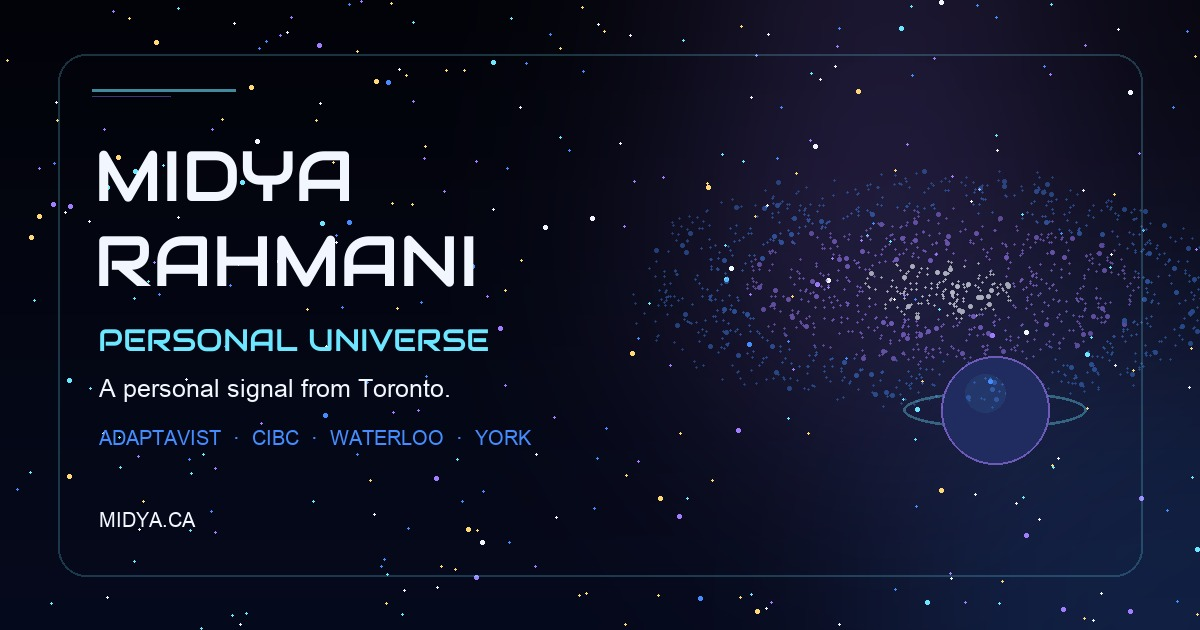
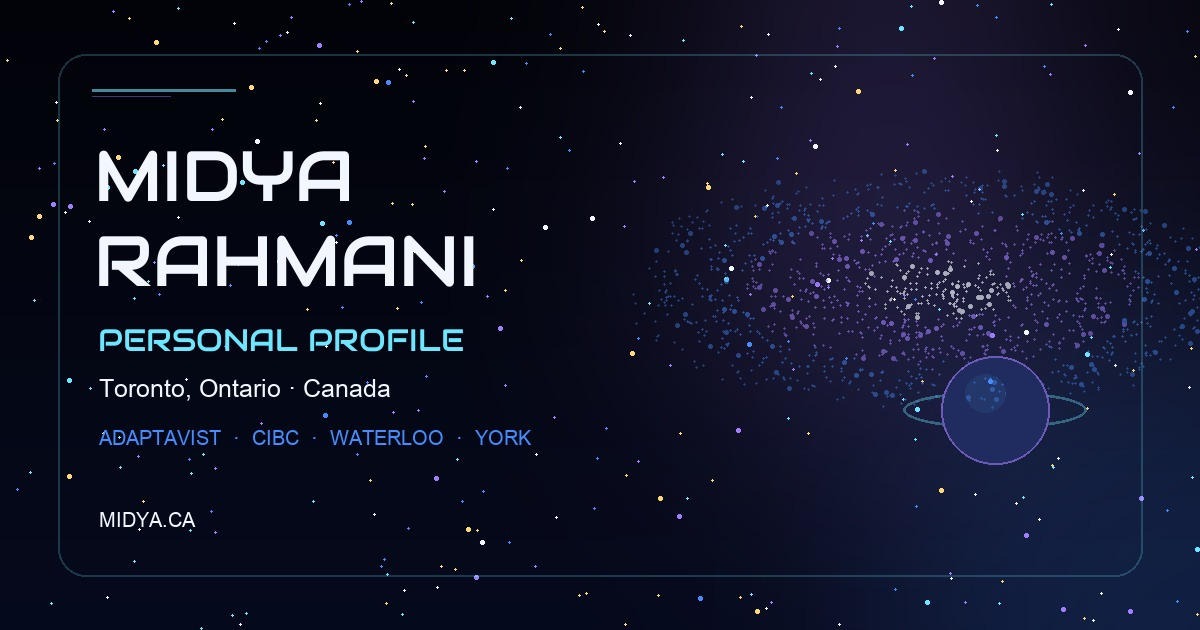
Use portrait five and neutralize profile wording
Keep the cosmic visual design while replacing space-themed labels with straightforward professional copy across the page, metadata, manifest, and social card.

Changed region(s): [[0.2467, 0.5127, 0.4008, 0.573], [0.0617, 0.6032, 0.37, 0.6333]]

diff --git a/index.html b/index.html
@@ -6,7 +6,7 @@
       name="viewport"
       content="width=device-width, initial-scale=1, viewport-fit=cover"
     />
-    <title>Midya Rahmani — Personal Universe</title>
+    <title>Midya Rahmani — Personal Profile</title>
     <meta
       name="description"
       content="Midya Rahmani — Toronto-based personal profile. Adaptavist, CIBC, Group of Gold Line, University of Waterloo, and York University."
@@ -21,34 +21,34 @@
     <meta property="og:type" content="website" />
     <meta property="og:site_name" content="Midya Rahmani" />
     <meta property="og:locale" content="en_CA" />
-    <meta property="og:title" content="Midya Rahmani — Personal Universe" />
+    <meta property="og:title" content="Midya Rahmani — Personal Profile" />
     <meta
       property="og:description"
-      content="A personal signal from Toronto. Explore Midya Rahmani's professional journey, education, and interests."
+      content="Explore Midya Rahmani's professional journey, education, and interests."
     />
-    <meta property="og:image" content="https://midya.ca/og-image.jpg?v=7" />
+    <meta property="og:image" content="https://midya.ca/og-image.jpg?v=8" />
     <meta
       property="og:image:secure_url"
-      content="https://midya.ca/og-image.jpg?v=7"
+      content="https://midya.ca/og-image.jpg?v=8"
     />
     <meta property="og:image:type" content="image/jpeg" />
     <meta property="og:image:width" content="1200" />
     <meta property="og:image:height" content="630" />
     <meta
       property="og:image:alt"
-      content="Midya Rahmani — a cinematic blue and violet galaxy brand card"
+      content="Midya Rahmani professional profile card"
     />
 
     <meta name="twitter:card" content="summary_large_image" />
-    <meta name="twitter:title" content="Midya Rahmani — Personal Universe" />
+    <meta name="twitter:title" content="Midya Rahmani — Personal Profile" />
     <meta
       name="twitter:description"
-      content="A personal signal from Toronto. Adaptavist · CIBC · Waterloo · York."
+      content="Toronto · Adaptavist · CIBC · Waterloo · York."
     />
-    <meta name="twitter:image" content="https://midya.ca/og-image.jpg?v=7" />
+    <meta name="twitter:image" content="https://midya.ca/og-image.jpg?v=8" />
     <meta
       name="twitter:image:alt"
-      content="Midya Rahmani — a cinematic blue and violet galaxy brand card"
+      content="Midya Rahmani professional profile card"
     />
 
     <link rel="icon" href="/favicon.svg" type="image/svg+xml" />
@@ -72,7 +72,7 @@
           "addressCountry": "CA"
         },
         "description": "Midya Rahmani — Toronto. Professional background with Adaptavist, CIBC, and Group of Gold Line. University of Waterloo and York University.",
-        "image": "https://midya.ca/og-image.jpg?v=7",
+        "image": "https://midya.ca/og-image.jpg?v=8",
         "sameAs": ["https://www.linkedin.com/in/midyarahmani/"],
         "alumniOf": [
           {
@@ -102,7 +102,7 @@
         <p>
           Toronto-based, with professional experience across Adaptavist, CIBC,
           and Group of Gold Line. Please enable JavaScript to explore the full
-          galaxy experience.
+          interactive profile.
         </p>
         <p>
           <a href="https://www.linkedin.com/in/midyarahmani/">LinkedIn</a>

diff --git a/src/components/Hero.tsx b/src/components/Hero.tsx
@@ -18,11 +18,11 @@ export function Hero() {
         >
           <motion.div className="mission-tag" variants={rise}>
             <span className="mission-tag__signal" aria-hidden="true" />
-            Personal transmission · Toronto
+            Personal profile · Toronto
           </motion.div>
 
           <motion.p className="hero__kicker" variants={rise}>
-            Signal origin · {profile.coordinates}
+            Based in · {profile.location}
           </motion.p>
           <motion.h1 id="hero-title" variants={rise}>
             <span>Midya</span>
@@ -42,7 +42,7 @@ export function Hero() {
               <span aria-hidden="true">↗</span>
             </a>
             <a className="button button--ghost" href="#about">
-              Enter orbit
+              Explore profile
               <span aria-hidden="true">↓</span>
             </a>
           </motion.div>
@@ -52,7 +52,7 @@ export function Hero() {
               <dd>{profile.yearsExperience} years</dd>
             </div>
             <div>
-              <dt>Current signal</dt>
+              <dt>Current company</dt>
               <dd>Adaptavist</dd>
             </div>
             <div>
@@ -87,12 +87,12 @@ export function Hero() {
             <span className="portrait-frame__scan" aria-hidden="true" />
           </div>
           <div className="portrait-label portrait-label--top">
-            <span>IDENT</span>
-            MR-043
+            <span>PROFILE</span>
+            Midya Rahmani
           </div>
           <div className="portrait-label portrait-label--bottom">
-            <span>STATUS</span>
-            Signal active
+            <span>LOCATION</span>
+            Toronto, Canada
           </div>
         </motion.div>
       </div>

diff --git a/src/components/Contact.tsx b/src/components/Contact.tsx
@@ -30,9 +30,9 @@ export function Contact() {
     <section className="section section--contact" id="contact">
       <SectionHeader
         number="05"
-        eyebrow="Open channel"
+        eyebrow="Get in touch"
         title="Start a conversation"
-        description="The signal is open for conversation, connection, and thoughtful collaboration."
+        description="Open to conversation, connection, and thoughtful collaboration."
       />
 
       <motion.div
@@ -44,7 +44,7 @@ export function Contact() {
       >
         <div className="contact-console__status">
           <span aria-hidden="true" />
-          TRANSMISSION READY
+          AVAILABLE TO CONNECT
         </div>
         <h3>Say hello from wherever you are.</h3>
         <div className="contact-console__links">
@@ -68,7 +68,7 @@ export function Contact() {
       <footer className="site-footer">
         <span>© {new Date().getFullYear()} Midya Rahmani</span>
         <span>Toronto · {torontoTime}</span>
-        <a href="#top">Return to orbit ↑</a>
+        <a href="#top">Back to top ↑</a>
       </footer>
     </section>
   );

diff --git a/src/components/ExperienceOrbit.tsx b/src/components/ExperienceOrbit.tsx
@@ -7,9 +7,9 @@ export function ExperienceOrbit() {
     <section className="section" id="experience">
       <SectionHeader
         number="02"
-        eyebrow="Orbital history"
+        eyebrow="Professional history"
         title="Professional journey"
-        description="Organizations and coordinates along the path—kept intentionally simple."
+        description="A concise view of the organizations that have been part of my professional journey."
       />
 
       <ol className="orbit-timeline">
@@ -26,8 +26,8 @@ export function ExperienceOrbit() {
             </span>
             <article className="orbit-card">
               <div className="orbit-card__meta">
-                <span>ORBIT {String(index + 1).padStart(2, "0")}</span>
-                {entry.active ? <em>Active signal</em> : <span>Archived signal</span>}
+                <span>EXPERIENCE {String(index + 1).padStart(2, "0")}</span>
+                {entry.active ? <em>Current</em> : <span>Previous</span>}
               </div>
               <h3>{entry.organization}</h3>
               <p>

diff --git a/src/components/EducationPlanets.tsx b/src/components/EducationPlanets.tsx
@@ -7,9 +7,9 @@ export function EducationPlanets() {
     <section className="section" id="education">
       <SectionHeader
         number="03"
-        eyebrow="Academic coordinates"
+        eyebrow="Academic background"
         title="Education"
-        description="Two institutions in the constellation, each part of the same trajectory."
+        description="Graduate and undergraduate studies from two Canadian universities."
       />
 
       <div className="education-grid">
@@ -36,7 +36,7 @@ export function EducationPlanets() {
                 loading="lazy"
               />
             </div>
-            <p className="education-planet__orbit">{education.orbit}</p>
+            <p className="education-planet__orbit">{education.label}</p>
             <h3>{education.institution}</h3>
             <p className="education-planet__degree">{education.degree}</p>
             <dl>

diff --git a/src/data/profile.ts b/src/data/profile.ts
@@ -12,13 +12,12 @@ export type Education = {
   gpa: string;
   logo: string;
   accent: "gold" | "red";
-  orbit: string;
+  label: string;
 };
 
 export const profile = {
   name: "Midya Rahmani",
   location: "Toronto, Ontario",
-  coordinates: "43.6532° N · 79.3832° W",
   yearsExperience: "12+",
   linkedin: "https://www.linkedin.com/in/midyarahmani/",
   email: {
@@ -58,7 +57,7 @@ export const profile = {
       gpa: "3.9 / 4.0",
       logo: "/waterloo-logo.svg",
       accent: "gold",
-      orbit: "Graduate orbit",
+      label: "Graduate studies",
     },
     {
       institution: "York University",
@@ -67,7 +66,7 @@ export const profile = {
       gpa: "3.3 / 4.0",
       logo: "/york-logo.svg",
       accent: "red",
-      orbit: "Foundation orbit",
+      label: "Undergraduate studies",
     },
   ] satisfies Education[],
   interests: [

diff --git a/src/components/About.tsx b/src/components/About.tsx
@@ -9,7 +9,7 @@ export function About() {
         number="01"
         eyebrow="Profile data"
         title="A little about me"
-        description="A personal signal from Toronto, shaped by curiosity, movement, and a view toward what comes next."
+        description="A personal profile shaped by curiosity, movement, and a view toward what comes next."
       />
 
       <div className="about-grid">
@@ -38,7 +38,7 @@ export function About() {
 
         <motion.aside
           className="identity-console"
-          aria-label="Identity coordinates"
+          aria-label="Profile details"
           initial={{ opacity: 0, x: 24 }}
           whileInView={{ opacity: 1, x: 0 }}
           viewport={{ once: true, amount: 0.35 }}

diff --git a/src/components/InterestsSignals.tsx b/src/components/InterestsSignals.tsx
@@ -8,9 +8,9 @@ export function InterestsSignals() {
     <section className="section" id="interests">
       <SectionHeader
         number="04"
-        eyebrow="Open frequencies"
+        eyebrow="Personal interests"
         title="Beyond work"
-        description="The signals I keep returning to, from markets and machines to movement and exploration."
+        description="The topics and activities I keep returning to, from markets and technology to movement and exploration."
       />
 
       <motion.div

diff --git a/src/App.tsx b/src/App.tsx
@@ -78,11 +78,11 @@ function App() {
           <span>M</span>
           <i />
         </div>
-        <p>CALIBRATING PERSONAL UNIVERSE</p>
+        <p>LOADING PERSONAL PROFILE</p>
         <div className="boot-screen__bar">
           <span className={galaxyReady ? "is-ready" : ""} />
         </div>
-        <small>{galaxyReady ? "SIGNAL LOCKED" : "MAPPING STAR FIELD"}</small>
+        <small>{galaxyReady ? "READY" : "PREPARING EXPERIENCE"}</small>
       </div>
 
       <Navigation />

diff --git a/scripts/generate-social-images.py b/scripts/generate-social-images.py
@@ -1,5 +1,5 @@
 #!/usr/bin/env python3
-"""Generate original galaxy-themed social and touch images for midya.ca."""
+"""Generate original social and touch images for midya.ca."""
 from __future__ import annotations
 
 import math
@@ -198,8 +198,8 @@ def make_og_image() -> Image.Image:
 
     draw.text((94, 130), "MIDYA", font=display, fill=INK)
     draw.text((94, 215), "RAHMANI", font=display, fill=INK)
-    draw.text((98, 320), "PERSONAL UNIVERSE", font=display_small, fill=CYAN)
-    draw.text((99, 374), "A personal signal from Toronto.", font=ui, fill=(*INK, 210))
+    draw.text((98, 320), "PERSONAL PROFILE", font=display_small, fill=CYAN)
+    draw.text((99, 374), "Toronto, Ontario · Canada", font=ui, fill=(*INK, 210))
     draw.text(
         (99, 426),
         "ADAPTAVIST  ·  CIBC  ·  WATERLOO  ·  YORK",

diff --git a/HANDOFF.md b/HANDOFF.md
@@ -69,6 +69,8 @@ Keep the profile generic unless Midya asks otherwise:
 - Organizations: Adaptavist, CIBC, and Group of Gold Line
 - Show dates and locations, but no role titles, skills grid, certifications,
   projects, or role-specific claims
+- Keep visible copy professionally neutral; the visual design can remain cosmic
+  without space-themed labels, metaphors, or status language
 - Education: University of Waterloo, GPA `3.9 / 4.0`; York University,
   GPA `3.3 / 4.0`
 - LinkedIn: `https://www.linkedin.com/in/midyarahmani/`
@@ -76,7 +78,7 @@ Keep the profile generic unless Midya asks otherwise:
   assembled at runtime to reduce simple scraping
 
 `index.html` contains canonical, Open Graph, Twitter, and Person JSON-LD
-metadata. The social image currently uses cache-bust `?v=7`.
+metadata. The social image currently uses cache-bust `?v=8`.
 
 ## Galaxy renderer
 
